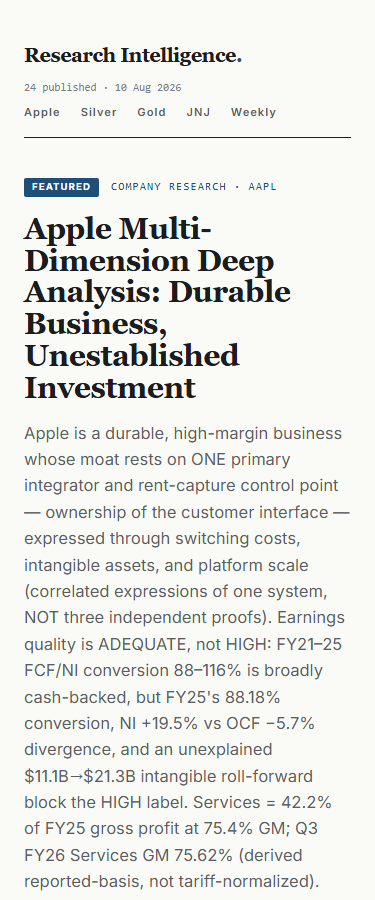
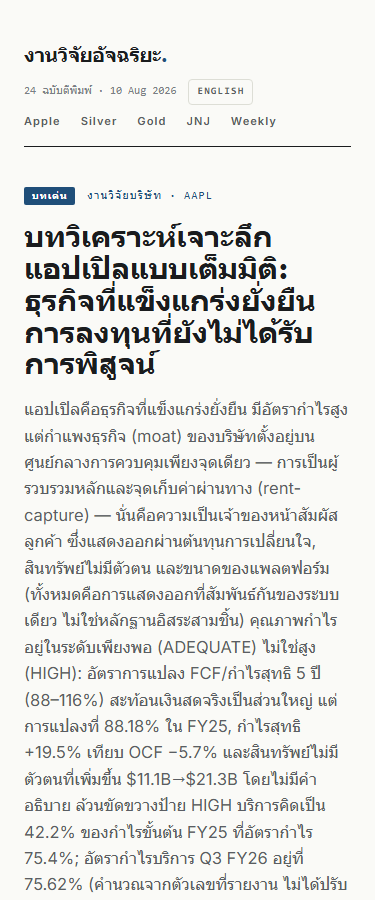
chore(i18n): re-capture mobile screenshots in Thai (default lang) + reportClient title_th/summary_th/content_th types

Changed region(s): [[0.0587, 0.1867, 0.9387, 0.9956], [0.0587, 0.0311, 0.7333, 0.1556], [0.6747, 0.1867, 0.7333, 0.2178]]

diff --git a/frontend/src/api/reportClient.ts b/frontend/src/api/reportClient.ts
@@ -2,6 +2,7 @@
 export interface ReportMeta {
   slug: string
   title: string
+  title_th?: string | null
   type: string
   subject: string
   date: string
@@ -9,11 +10,13 @@ export interface ReportMeta {
   status: string
   updated: string
   summary: string
+  summary_th?: string | null
   path: string
 }
 
 export interface ReportDetail extends ReportMeta {
   content: string
+  content_th?: string | null
 }
 
 const BASE = "/api";
